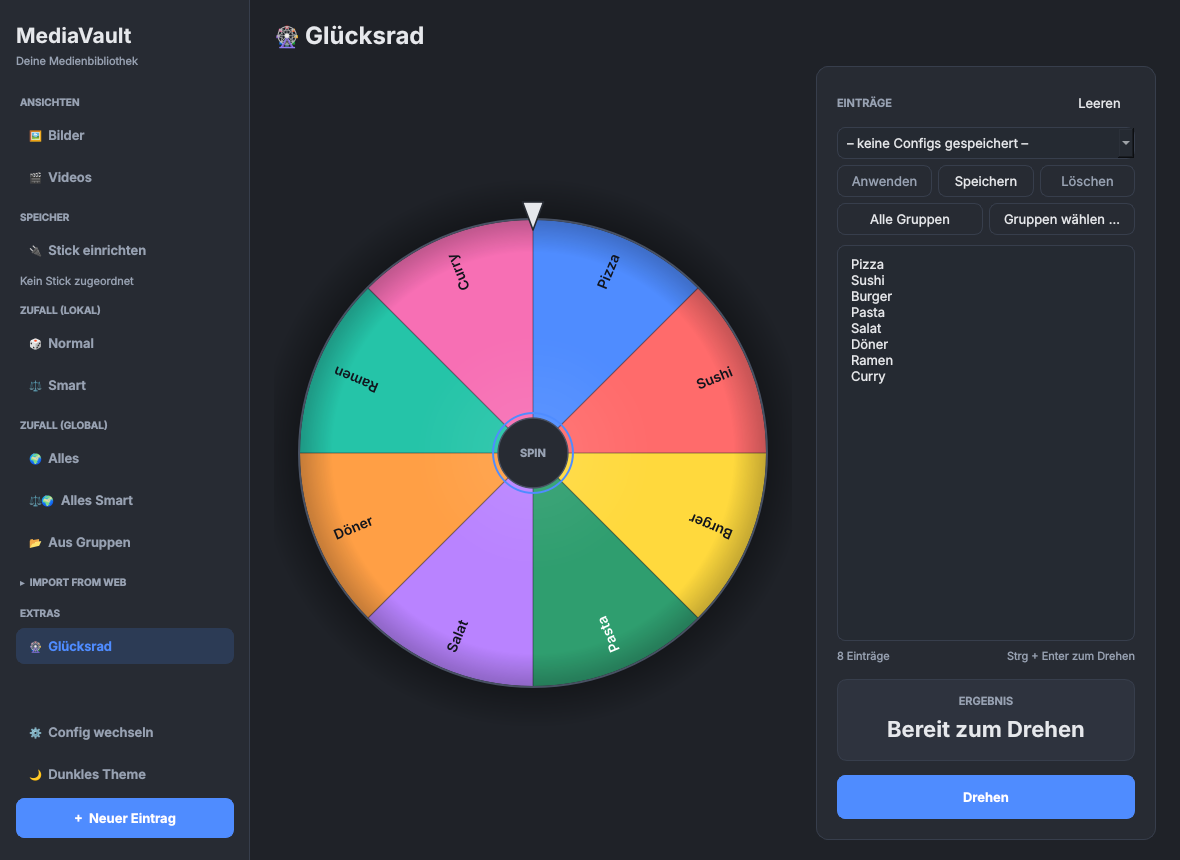
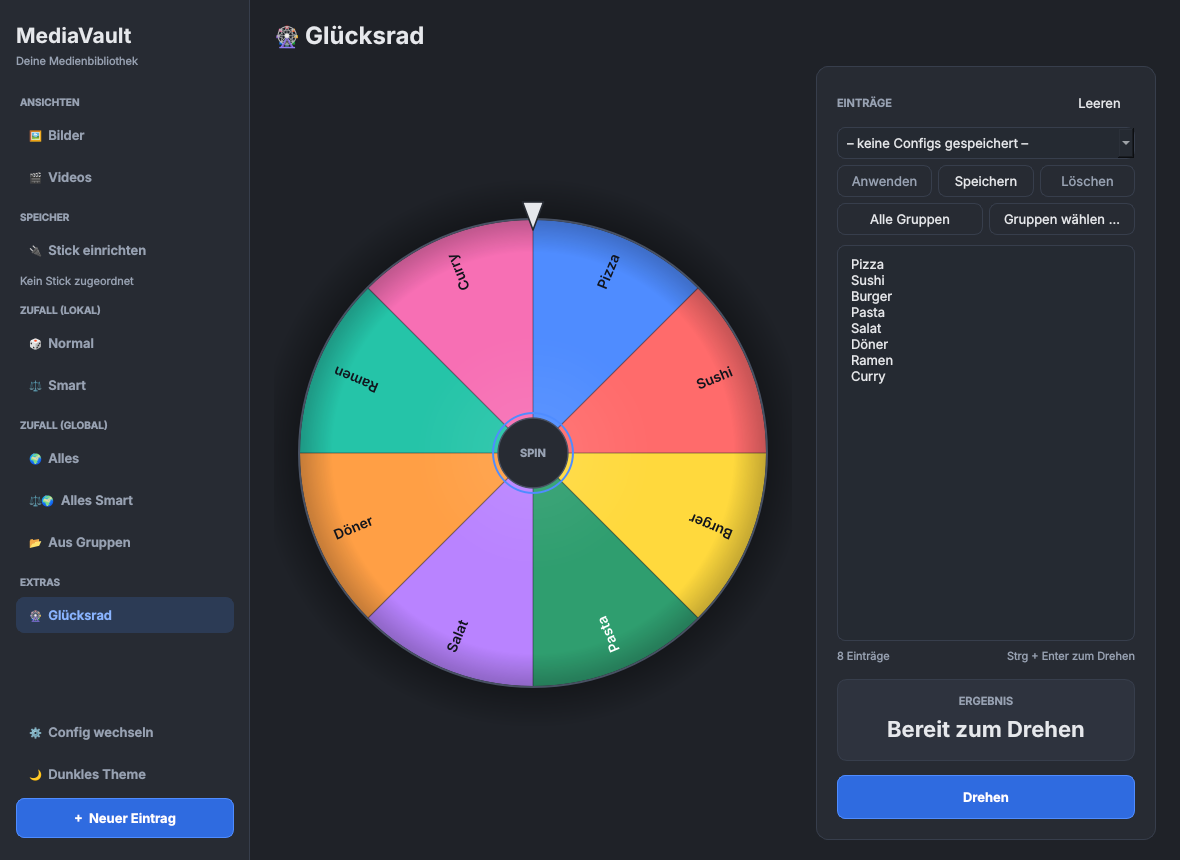
Fix: Readable contrast and a muted disabled delete button
The disabled delete button kept its bright red, so it was the most
prominent element while nothing was selected. Text on primary buttons,
delete buttons, score badges and the active sidebar entry now reaches
WCAG AA (4.5:1) in all three themes; a test checks the ratios.

Changed region(s): [[0.7017, 0.8767, 0.9763, 0.9674], [0.0, 0.6651, 0.2136, 0.786], [0.0, 0.907, 0.2136, 0.9977]]

diff --git a/mediavault/gui/theme.py b/mediavault/gui/theme.py
@@ -47,21 +47,23 @@ PALETTES: dict[str, dict[str, str]] = {
         "primary": "#4f8cff",
         "primary_hover": "#6ba0ff",
         "primary_text": "#ffffff",
-        "danger": "#e05252",
-        "danger_hover": "#f06565",
+        "danger": "#c93a3a",
+        "danger_hover": "#b83232",
         "selection_bg": "#26344c",
         "selection_fill": "rgba(79, 140, 255, 48)",
         "nav_active_bg": "#2c3b55",
+        "nav_active_text": "#8ab4ff",
         "scrollbar": "#454d5c",
         "scrollbar_hover": "#555f72",
-        "score_high": "#2f9e6f",
-        "score_mid": "#c08a2e",
-        "score_low": "#c2703a",
-        "score_bad": "#d9534f",
+        "score_high": "#1e7a52",
+        "score_mid": "#8a6d0f",
+        "score_low": "#b4501f",
+        "score_bad": "#c0392b",
         "accent": "#4f8cff",
         "accent_hover": "#6ba0ff",
-        "primary_fill": "#4f8cff",
-        "primary_fill_hover": "#6ba0ff",
+        # Darker than primary, so white button text stays readable (4.5:1).
+        "primary_fill": "#2f6be0",
+        "primary_fill_hover": "#2559c4",
         "primary_fill_text": "#ffffff",
         "glow": "",
     },
@@ -82,7 +84,8 @@ PALETTES: dict[str, dict[str, str]] = {
         "danger_hover": "#b91c1c",
         "selection_bg": "#e8efff",
         "selection_fill": "rgba(37, 99, 235, 40)",
-        "nav_active_bg": "#e3ecff",
+        "nav_active_bg": "#edf2ff",
+        "nav_active_text": "#2563eb",
         "scrollbar": "#c7cfdb",
         "scrollbar_hover": "#aeb9c9",
         "score_high": "#12805c",
@@ -110,15 +113,16 @@ PALETTES: dict[str, dict[str, str]] = {
         "primary": "#c084fc",
         "primary_hover": "#e879f9",
         "primary_text": "#0b0b12",
-        "danger": "#f43f5e",
-        "danger_hover": "#fb7185",
+        "danger": "#d42a4a",
+        "danger_hover": "#be123c",
         "selection_bg": "#1d1730",
         "selection_fill": "rgba(192, 132, 252, 50)",
         "nav_active_bg": "#221a37",
+        "nav_active_text": "#c084fc",
         "scrollbar": "#2c2a44",
         "scrollbar_hover": "#48436e",
-        "score_high": "#14b8a6",
-        "score_mid": "#8b5cf6",
+        "score_high": "#0d7d70",
+        "score_mid": "#7c3aed",
         "score_low": "#db2777",
         "score_bad": "#e11d48",
         "accent": _NEON_GRADIENT % ("#67e8f9", "#a78bfa", "#f472b6"),
@@ -214,6 +218,11 @@ QPushButton[variant="danger"]:hover {
     background-color: $danger_hover;
     border-color: $danger_hover;
 }
+QPushButton[variant="danger"]:disabled {
+    background-color: transparent;
+    border-color: $border;
+    color: $text_muted;
+}
 QPushButton[variant="ghost"] {
     background-color: transparent;
     border-color: transparent;
@@ -236,7 +245,7 @@ QPushButton[nav="true"]:hover { background-color: $hover; color: $text; }
 QPushButton[nav="true"]:checked {
     background-color: $nav_active_bg;
     border-color: $nav_active_bg;
-    color: $primary;
+    color: $nav_active_text;
 }
 
 QLineEdit, QTextEdit, QPlainTextEdit, QComboBox {
@@ -257,7 +266,7 @@ QComboBox QAbstractItemView {
     border-radius: 8px;
     padding: 4px;
     selection-background-color: $nav_active_bg;
-    selection-color: $primary;
+    selection-color: $nav_active_text;
     outline: none;
 }
 
@@ -381,7 +390,7 @@ QToolTip {
 }
 
 QMenu, QMessageBox { background-color: $surface; }
-QMenu::item:selected { background-color: $nav_active_bg; color: $primary; }
+QMenu::item:selected { background-color: $nav_active_bg; color: $nav_active_text; }
 """
 )
 

diff --git a/tests/test_theme.py b/tests/test_theme.py
@@ -65,3 +65,36 @@ def test_neon_cards_glow_only_when_selected_or_hovered(app, tmp_path):
 
     manager.apply(app, "dark")  # style change: no glow outside neon
     assert card.graphicsEffect() is None
+
+
+def _contrast(fg, bg):
+    """WCAG contrast ratio of two #rrggbb colors."""
+
+    def luminance(color):
+        channels = [int(color.lstrip("#")[i : i + 2], 16) / 255 for i in (0, 2, 4)]
+        linear = [
+            c / 12.92 if c <= 0.03928 else ((c + 0.055) / 1.055) ** 2.4
+            for c in channels
+        ]
+        return 0.2126 * linear[0] + 0.7152 * linear[1] + 0.0722 * linear[2]
+
+    high, low = sorted((luminance(fg), luminance(bg)), reverse=True)
+    return (high + 0.05) / (low + 0.05)
+
+
+@pytest.mark.parametrize("name", list(PALETTES))
+def test_text_contrast_meets_wcag_aa(name):
+    colors = PALETTES[name]
+    pairs = [
+        ("primary_fill_text", "primary_fill"),
+        ("nav_active_text", "nav_active_bg"),
+        ("text_muted", "bg"),
+        ("text_muted", "surface"),
+        ("text", "surface"),
+    ]
+    # Danger buttons and score badges use white text (see the stylesheet).
+    for key in ("danger", "score_high", "score_mid", "score_low", "score_bad"):
+        pairs.append(("#ffffff", key))
+    for fg, bg in pairs:
+        ratio = _contrast(colors.get(fg, fg), colors[bg])
+        assert ratio >= 4.5, (name, fg, bg, round(ratio, 2))
